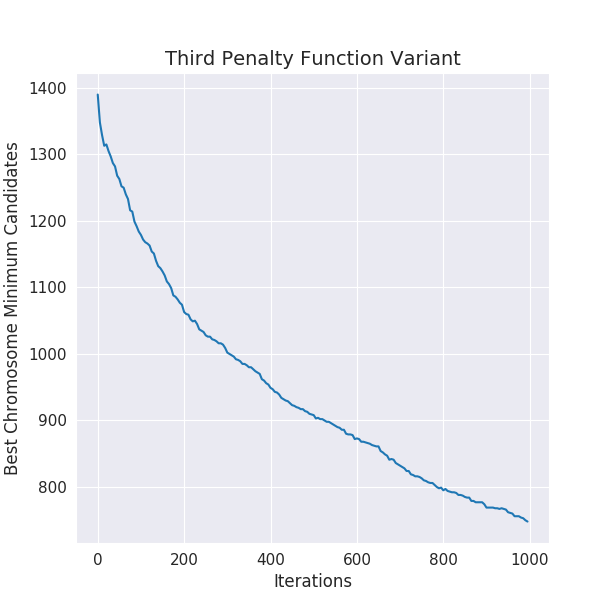
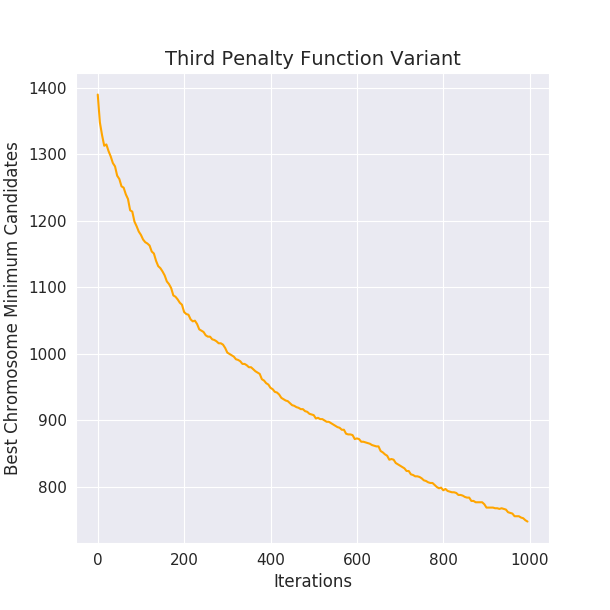
Updated last plot

diff --git a/results/create_plots.py b/results/create_plots.py
@@ -12,8 +12,8 @@ import matplotlib.pyplot as plt
 #logs_folder = "ep"
 #logs_folder = "rep"
 #logs_folder = "elitism"
-#logs_folder = "hybridized_hill_climbing"
-logs_folder = "hybridized_simulated_annealing"
+logs_folder = "hybridized_hill_climbing"
+#logs_folder = "hybridized_simulated_annealing"
 #logs_folder = "hybridized_hill_climbing_elitism"
 #logs_folder = "hybridized_simulated_annealing_elitism"
 
@@ -21,10 +21,10 @@ logs_folder = "hybridized_simulated_annealing"
 #log_name = "AC_01_cover_experiment_ga_ep_hybridized_simulated_annealing_elitism_1616407916.802027.txt"
 
 # eval_chromosome_2
-log_name = "AC_01_cover_experiment_ga_ep_hybridized_simulated_annealing_1616398831.666533.txt"
+#log_name = "AC_01_cover_experiment_ga_ep_hybridized_simulated_annealing_1616398831.666533.txt"
 
 # eval_chromosome_4
-#log_name = "AC_01_cover_experiment_ga_ep_hybridized_hill_climbing_1616395848.842849.txt"
+log_name = "AC_01_cover_experiment_ga_ep_hybridized_hill_climbing_1616395848.842849.txt"
 
 # test
 #log_name = 'AC_01_cover_experiment_ga_ep1616333482.801356.txt'
@@ -89,7 +89,7 @@ def create_plot():
     figure = plt.figure(figsize=(6.1, 6.1))
     sns.set_style("darkgrid")
     #sns.scatterplot(x=np.arange(len(min_vals))[::10], y=min_vals[::10], hue=df.loc[::10, "All Samples Covered"], s=150)
-    sns.lineplot(x=np.arange(len(min_vals))[::5], y=min_vals[::5], hue=df.loc[::5, "All Samples Covered"])
+    sns.lineplot(x=np.arange(len(min_vals))[::5], y=min_vals[::5], color='orange') #, hue=df.loc[::5, "All Samples Covered"])
     plt.xlabel("Iterations", fontsize=12)
     plt.ylabel("Best Chromosome Minimum Candidates", fontsize=12)
     plt.tick_params(labelsize=11)
